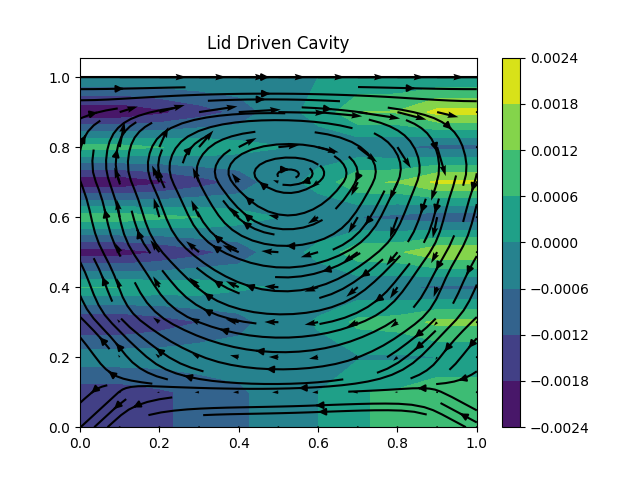
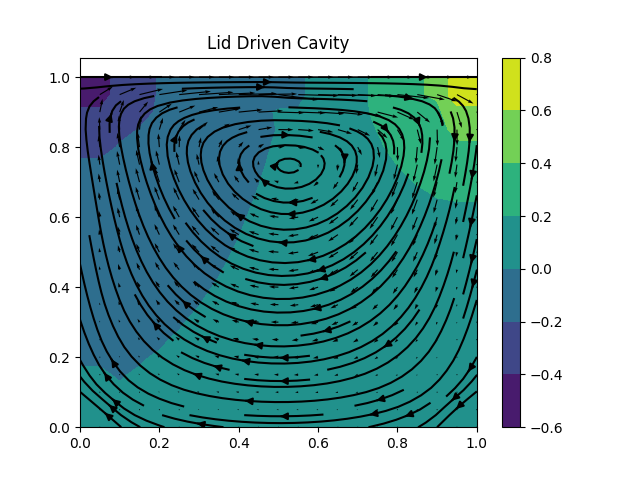
reducing number of PISO corrector steps - that seems to cause checkerboarding. reported divergence is high, trying to figure out why - identified and fixed the pressure direchlet issue in the input file generation

diff --git a/scratch/generate_input_files.py b/scratch/generate_input_files.py
@@ -1,8 +1,8 @@
 import numpy as np
 
 def lid_driven_cavity():
-    NX = 11
-    NY = 11
+    NX = 21
+    NY = 21
     LX = 1
     LY = 1
     dx = LX / (NX - 1)
@@ -32,11 +32,15 @@ def lid_driven_cavity():
                 PVAL = 0
                 if jdx == NY - 1:
                     VBCTYPE = 1
-                    PBCTYPE = 1
+                    PBCTYPE = 0  # do not specify - no grad default at domain edge
                     UVAL = lid_velocity
                 elif jdx == 0 or idx == 0 or idx == NX - 1:
                     VBCTYPE = 1
                     PBCTYPE = 0  # do not specify - no grad default at domain edge
+                if jdx == NY - 1 and idx == NX//2:
+                    # pressure poisson needs a fixed pressure value at one point, so here it is
+                    PBCTYPE = 1
+                    PVAL = 0
                 f.write(f"{X[idx]:.2f}  {Y[jdx]:.2f}  {0:.2f}  {VBCTYPE:2d}  {PBCTYPE:2d}  {UVAL:.2f}  {VVAL:.2f}  {0:.2f}  {PVAL:.2f}\n")
 
     with open("probleminformation.txt", "w") as f:

diff --git a/src/Utilities.cpp b/src/Utilities.cpp
@@ -74,7 +74,7 @@ double computeDivergence(const Eigen::VectorXd& u, const Eigen::VectorXd& v,
     const GridInfo& Grid, const bool& debug)
 {
     double max_div = 0.0;
-    double sum_div = 0.0;
+    double mean_div = 0.0;
     int count = 0;
     // indexing
     int ij;
@@ -105,13 +105,14 @@ double computeDivergence(const Eigen::VectorXd& u, const Eigen::VectorXd& v,
 
             div = dudx + dvdy;
             max_div = std::max(max_div, std::abs(div));
-            sum_div += std::abs(div);
+            mean_div += std::abs(div);
             count++;
         }
     }
+    mean_div /= count;
     if (debug) {
         std::cout << "Max divergence: " << max_div
-                  << ", Mean divergence: " << sum_div / count << std::endl;
+                  << ", Mean divergence: " << mean_div << std::endl;
     }
     return max_div;
 }

diff --git a/src/SolveSteadyState.cpp b/src/SolveSteadyState.cpp
@@ -7,6 +7,7 @@
 #include "PISO.hpp"
 #include "SolveSteadyState.hpp"
 #include "Types.hpp"
+#include "Utilities.hpp"
 
 /**
  * @brief
@@ -31,9 +32,10 @@ void solveSteadyStateProblem(Eigen::VectorXd& u, Eigen::VectorXd& v, Eigen::Vect
 
     for (int istep = 0; istep < Problem.Convergence.Steady.MAX_STEPS; istep++) {
         std::cout << "Begin Steady State Step " << istep << std::endl;
+        applyVelocityBoundaryConditions2D(u, v, BC, Grid);
         FLAG_PISO = stepPISO(u_next, v_next, p_next, u, v, p, Grid, BC, Problem);
         if (FLAG_PISO != 0) {
-            std::cout << "PISO step failed while solving steady state problem." << std::endl;
+            // std::cout << "PISO step failed while solving steady state problem." << std::endl;
         }
         //
         delta_u = (u_next - u).norm() / u.norm();

diff --git a/src/PISO.cpp b/src/PISO.cpp
@@ -44,6 +44,7 @@ int stepPISO(Eigen::VectorXd& u_next, Eigen::VectorXd& v_next, Eigen::VectorXd& 
     Eigen::VectorXd u_s1 = Eigen::VectorXd::Zero(Grid.NX * Grid.NY);
     Eigen::VectorXd v_s1 = Eigen::VectorXd::Zero(Grid.NX * Grid.NY);
     Eigen::VectorXd p_s1 = Eigen::VectorXd::Zero(Grid.NX * Grid.NY);
+    Eigen::VectorXd p_old = Eigen::VectorXd::Zero(Grid.NX * Grid.NY);
     Eigen::VectorXd u_s2 = Eigen::VectorXd::Zero(Grid.NX * Grid.NY);
     Eigen::VectorXd v_s2 = Eigen::VectorXd::Zero(Grid.NX * Grid.NY);
 
@@ -88,6 +89,7 @@ int stepPISO(Eigen::VectorXd& u_next, Eigen::VectorXd& v_next, Eigen::VectorXd& 
             break;
         }
         // prepare for next iteration
+        p_old = p_s1;
         u_s1 = u_s2;
         v_s1 = v_s2;
     }

diff --git a/src/CalcPressure.cpp b/src/CalcPressure.cpp
@@ -1,13 +1,14 @@
 #include <Eigen/Dense>
+#include <Eigen/IterativeLinearSolvers>
 
 #include "CalcPressure.hpp"
 #include "Types.hpp"
 
 /**
- * @brief 
+ * @brief
  */
 void calcPressure(Eigen::VectorXd& p_star,
-    const Eigen::VectorXd& u_star, const Eigen::VectorXd& v_star, 
+    const Eigen::VectorXd& u_star, const Eigen::VectorXd& v_star,
     const GridInfo& Grid, const BoundaryConditions& BC, const ProblemInformation& Problem)
 {
     // indexing
@@ -79,5 +80,8 @@ void calcPressure(Eigen::VectorXd& p_star,
         }
     }
     // solve
-    p_star = A.partialPivLu().solve(b);
+    // p_star = A.partialPivLu().solve(b);
+    Eigen::BiCGSTAB<Eigen::MatrixXd> solver;
+    solver.compute(A);
+    p_star = solver.solve(b);
 }

diff --git a/src/Types.hpp b/src/Types.hpp
@@ -13,12 +13,12 @@ struct FluidProperties {
 
 // Store PISO convergence settings
 struct PISOSettings {
-    int MAX_NUM_ITERATIONS = 500;
-    int PRINT_EVERY_N_ITERATIONS = 50;
-    double TOL_DIVERGENCE = 1e-6;
-    double TOL_U_REL = 1e-4;
-    double TOL_V_REL = 1e-4;
-    double TOL_W_REL = 1e-4;
+    int MAX_NUM_ITERATIONS = 3;
+    int PRINT_EVERY_N_ITERATIONS = 1;
+    double TOL_DIVERGENCE = 1e-3;
+    double TOL_U_REL = 1e-3;
+    double TOL_V_REL = 1e-3;
+    double TOL_W_REL = 1e-3;
 };
 
 struct SteadyStateSettings {

diff --git a/src/VelocityProjection.cpp b/src/VelocityProjection.cpp
@@ -52,7 +52,7 @@ void projectVelocity(Eigen::VectorXd& u_next, Eigen::VectorXd& v_next,
             // calc pressure derivatives
             dpdx_p = (p(ip1) - p(ij)) / dx_p;
             dpdx_m = (p(ij) - p(im1)) / dx_m;
-            dpdy_p = (p(jp1) - p(ij)) / dx_p;
+            dpdy_p = (p(jp1) - p(ij)) / dy_p;
             dpdy_m = (p(ij) - p(jm1)) / dy_m;
             //
             u_next(ij) = u_star(ij) - (Problem.dt / Problem.Properties.rho) * (dpdx_p + dpdx_m) / 2.0;

diff --git a/src/splittor.cpp b/src/splittor.cpp
@@ -14,6 +14,8 @@ using namespace std;
 
 int main()
 {
+    std::cout << "The number of threads that Eigen3 can see is: " << Eigen::nbThreads() << std::endl;
+
     ProblemInformation Problem;
     GridInfo Grid;
     BoundaryConditions BC;

diff --git a/scratch/plot_solution.py b/scratch/plot_solution.py
@@ -2,8 +2,8 @@ import matplotlib.pyplot as plt
 import numpy as np
 
 def plot_steady_solution():
-    NX = 11
-    NY = 11
+    NX = 21
+    NY = 21
     LX = 1
     LY = 1
     dx = LX / (NX - 1)
